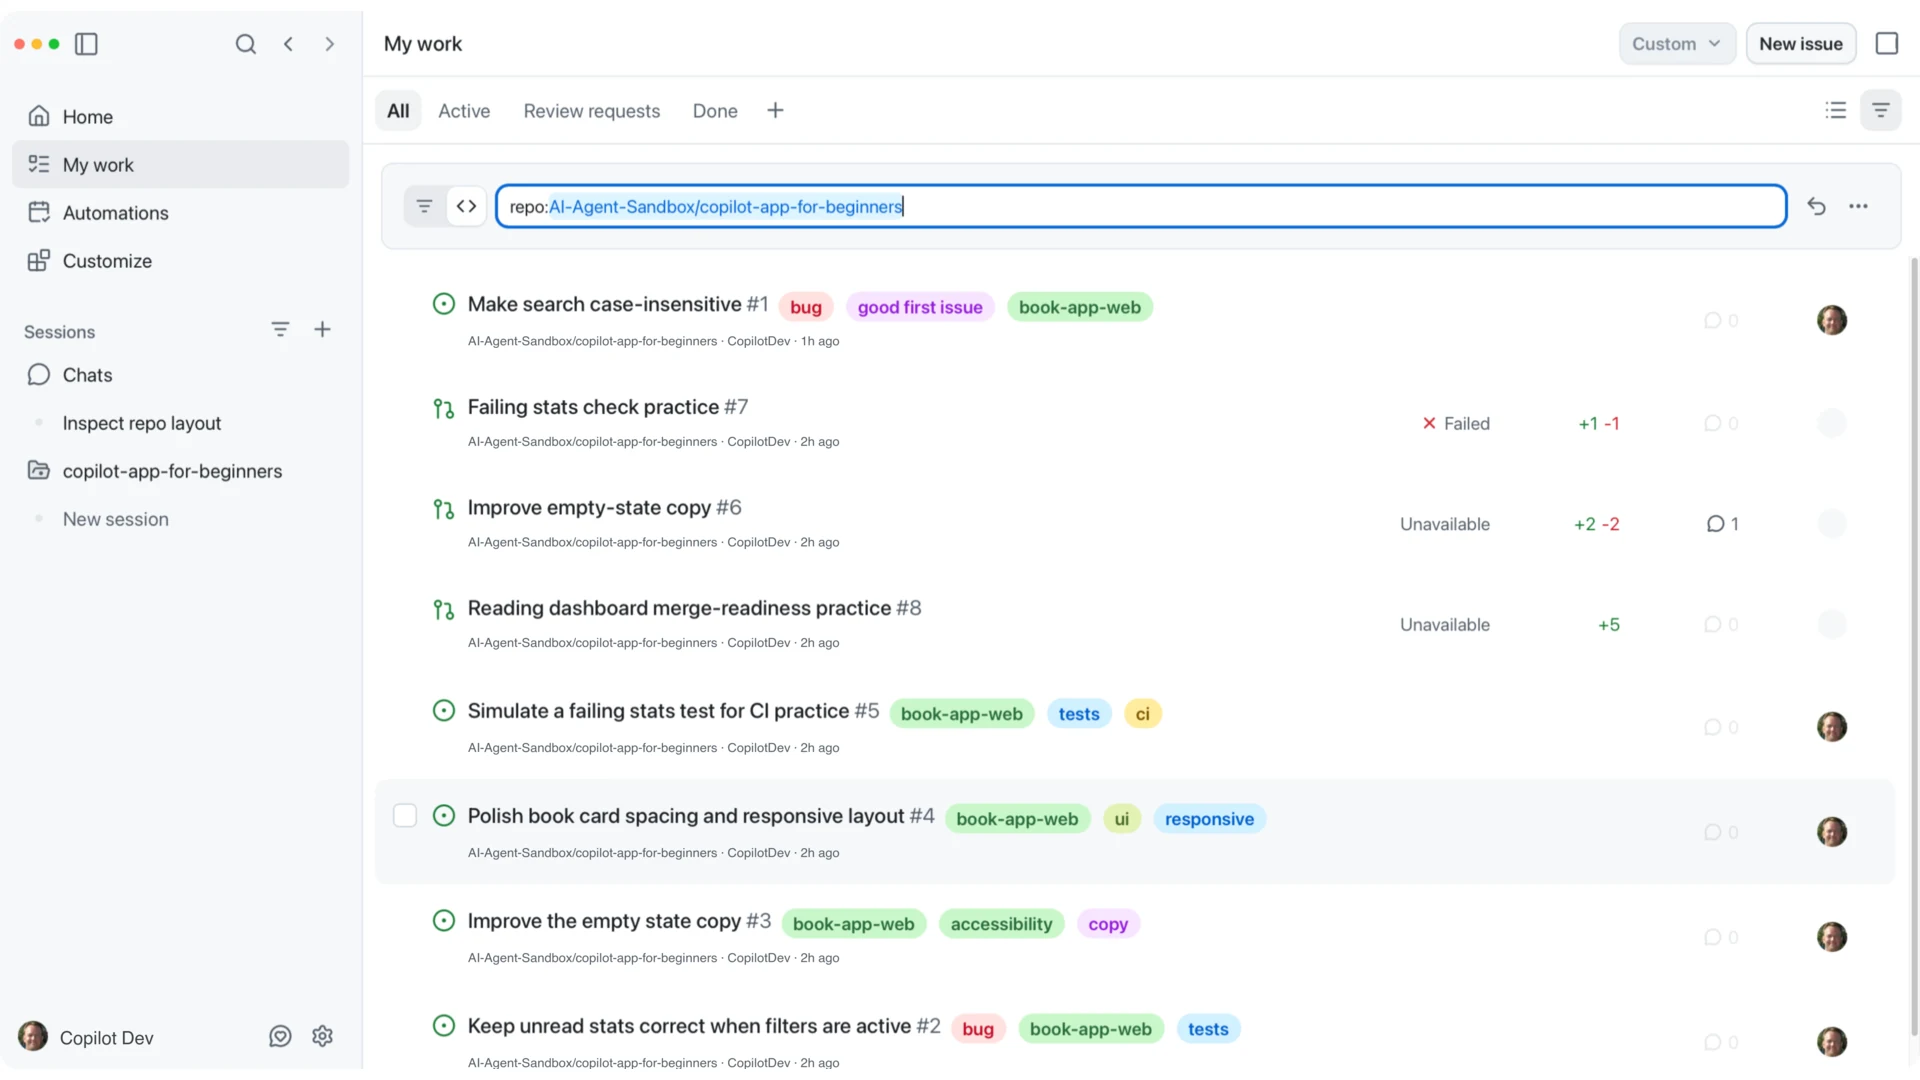
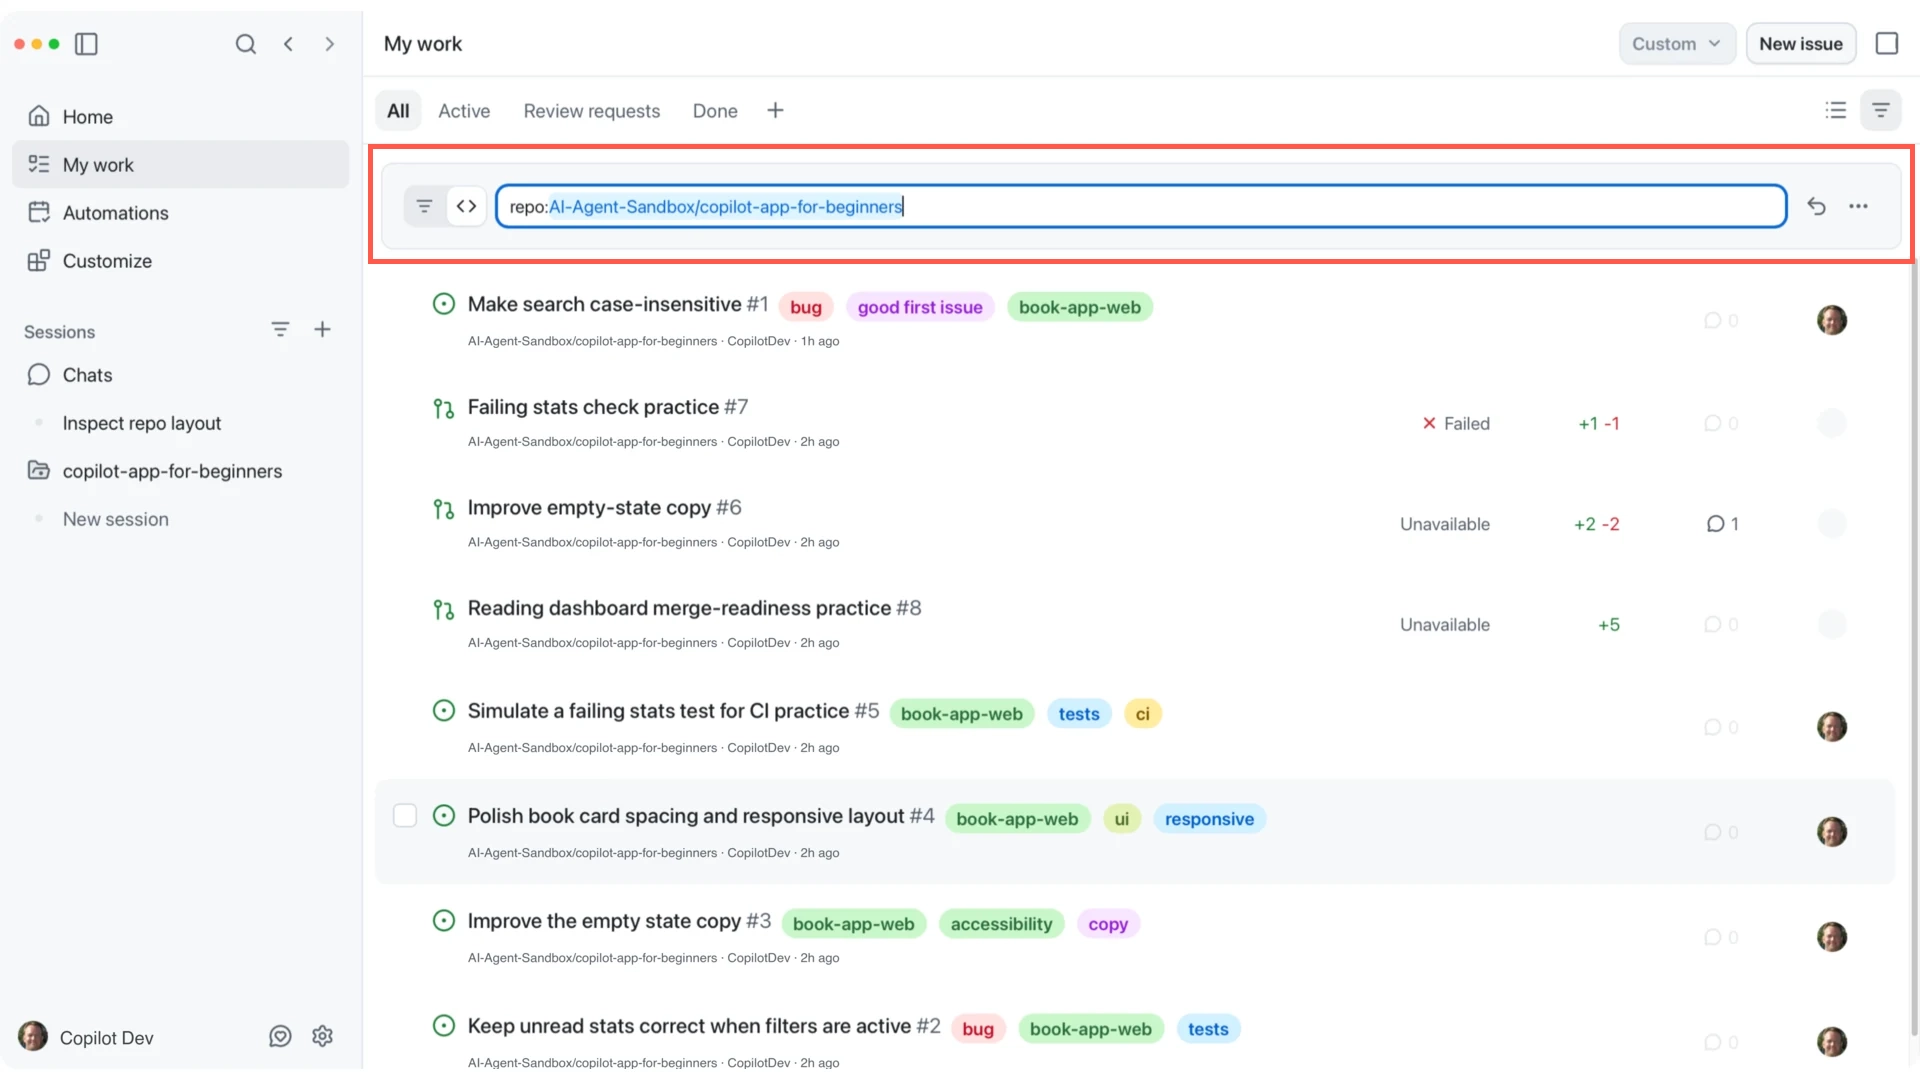
Update 03

Changed region(s): [[0.1875, 0.2139, 1.0, 0.2444], [0.1875, 0.1222, 1.0, 0.1528]]

diff --git a/03-development-workflows/README.md b/03-development-workflows/README.md
@@ -212,7 +212,7 @@ The rubber duck agent acts as a constructive critic. It can identify missing evi
 1. Compare the critique with the evidence you gathered. Address any relevant gap before continuing.
 
 > [!NOTE]
-> The rubber duck agent is available when the main session uses a Claude or GPT model. If the command is unavailable, switch to one of those models or submit the same request without the slash command.
+> The rubber duck agent is available when the main session uses a Claude or GPT model. If the command is unavailable, switch to one of those models or submit the same request without the slash command. 
 
 <details>
 <summary>Optional: Use Pick &amp; Polish for a UI Change</summary>
@@ -225,13 +225,15 @@ The rubber duck agent acts as a constructive critic. It can identify missing evi
    ```bash
    cd samples/book-app-web
    npm install
+   npm run build
    npm run dev
    ```
 
-1. In the Workspace panel, select **+**, then **Browser**. Enter the **Local** URL shown in the terminal and press `Enter`.
-1. In the browser toolbar, select **Pick & Polish**.
+1. In the Workspace panel, select **+**, then **Browser** (if it's not already open). Enter the **Local** URL shown in the terminal and press `Enter`.
+1. In the browser toolbar, select **Pick & Polish**. This is step 1 in the following image.
 1. Move your pointer over the app. Pick & Polish highlights elements as you move across the page.
-1. Select the empty background area of one book card so the whole card is highlighted. An `article.book-card` attachment appears in the prompt box, and Pick & Polish turns off.
+1. Select the empty background area of one book card so the whole card is highlighted (step 2 in the image). 
+1. An `article.book-card` attachment appears in the prompt box (step 3 in the image), and Pick & Polish turns off.
 
 ![Pick & Polish with an article.book-card attachment in the prompt box](assets/app-pick-and-polish.webp)
 
@@ -255,9 +257,10 @@ The outer loop is:
 
 1. Start from a GitHub issue.
 2. Implement and validate the change in a session.
-3. Open and review a pull request.
-4. Respond to feedback and failing checks.
-5. Merge only when the diff, local evidence, and GitHub checks agree.
+3. Review the diffs and evidence.
+4. Open and review a pull request.
+5. Respond to feedback and failing checks.
+6. Merge only when the diff, local evidence, and GitHub checks agree.
 
 ![Issue-to-merge workflow with a session, diff, approval gates, pull request, checks, and merge](assets/issue-to-merged-pr.webp)
 
@@ -268,7 +271,7 @@ The diagram shows the main path toward a merge. Feedback or a failed check can s
 **My work** is the app's inbox for issues, pull requests, review requests, and checks.
 
 1. Open **My work** and stay on **All**.
-1. Filter to your fork:
+1. Filter your fork by typing `repo:` into the searchbox and then selecting your repository:
 
    ```text
    repo:YOUR-OWNER/copilot-app-for-beginners
@@ -276,7 +279,11 @@ The diagram shows the main path toward a merge. Feedback or a failed check can s
 
 ![My work filtered to the course repository, showing its issues and pull requests](assets/app-my-work-filtered.webp)
 
-This view shows both issues and pull requests from the course repository. Add another qualifier when you want to narrow the list:
+Alternatively, you can select `All repositories` at the top of the **My work** panel, then select your repository from the list.
+
+<img src="assets/app-filter-repo.webp" alt="My work repository list showing the course repository" width="300" />
+
+This view shows both issues and pull requests from the course repository. Add another qualifier when you want to narrow the list even further:
 
 - Open issues:
 
@@ -294,28 +301,31 @@ Confirm that opening an item shows its title, repository, number, and current st
 
 Replace `YOUR-OWNER` with the username or organization that owns your fork.
 
-### 5. Start from an Issue and Open a Pull Request
+### 5. Identify an Issue and Open a Pull Request
 
-Issue 1 asks you to make search case-insensitive. The intentional bug exists only on the `practice-search-case-bug` branch.
+Issue 1 asks you to make search in the book app case-insensitive. The intentional bug exists only on the `practice-search-case-bug` branch.
 
-1. In **My work**, open **Make search case-insensitive**. If needed, review the scenario in [`samples/app-course-issues.md`](../samples/app-course-issues.md#issue-1-make-search-case-insensitive).
+1. In **My work**, open the **Make search case-insensitive** issue and review the details. If needed, review the scenario in [`samples/app-course-issues.md`](../samples/app-course-issues.md#issue-1-make-search-case-insensitive).
+
+> [!NOTE]
+> You may recall that in a previous chapter you attached an issue to a session using the #[issue-number] syntax. Here, you'll attach the issue to a session again and create a pull request based on that session.
 
 ![Issue 1 detail view with the New session control](assets/app-issue-new-session.webp)
 
-1. Select **New session**. The issue context is attached automatically.
-1. Use the branch selector below the prompt box to choose `practice-search-case-bug`.
-1. Set the mode to **Plan**, then submit:
+1. Select **Create from** next to your project in the sidebar and select the `practice-search-case-bug` branch.
+1. Set the mode to **Plan**, then submit the following promp. Notice that it includes the issue you previously reviewed:
 
    ```text
-   Use this issue as the source of truth. Create a small implementation and validation plan. Name the files you expect to change and the tests or browser checks that should prove the fix. Don't edit files yet.
+   Use issue #1 as the source of truth. Create a small implementation and validation plan. Name the files you expect to change and the tests or browser checks that should prove the fix. Don't edit files yet.
    ```
 
 1. Review the plan, switch to **Interactive**, and ask Copilot to implement it.
 1. Follow the inner loop:
-   - Inspect the diff.
-   - Run `npm install` if this worktree doesn't have dependencies.
-   - Run `npm test -- --run` and `npm run build`.
-   - Start the app and confirm that searches such as `hobbit` and `HOBBIT` return the same result.
+   - Inspect the diff in the **Review panel**.
+   - Open the terminal and run `npm install`.
+   - Run `npm test -- --run`.
+   - Run `npm run build`.
+   - Start the app with `npm run dev` and confirm that searches such as `hobbit` and `HOBBIT` return the same result.
 1. Confirm that the **Changes** tab contains only the focused search fix and its test.
 1. Ask Copilot for help with the description:
 
@@ -323,8 +333,9 @@ Issue 1 asks you to make search case-insensitive. The intentional bug exists onl
    Draft a pull request summary for this session. Include what changed, why it changed, and the validation performed. Don't claim a check passed unless it appears in the terminal or CI output.
    ```
 
-1. Review the draft, then select **Create PR** above the prompt box. Edit the title and description before publishing the pull request.
-1. Open the pull request in **My work**, select **Changes**, and inspect the final diff. GitHub's documentation calls this tab **Files changed**.
+1. Review the draft, then select **Create PR** at the top of the Copilot app interface. Once the PR is created you can select it above the prompt box to view details. 
+1. In a real-world situation you can merge the PR (assuming it's ready to merge) by selecting **Ready to merge** at the top of the Copilot app interface. For this exercise, merging is unnecessary because the corrected search behavior is already in  main .
+1. In addition to viewing the PR in the project session, you can also view it in **My work** and inspect the final diff.
 
 Your local evidence should show that the behavior works. The pull request now gives reviewers and CI a chance to check the same change on GitHub.
 
@@ -345,7 +356,7 @@ repo:YOUR-OWNER/copilot-app-for-beginners is:pr is:open
 
 ![Pull request conversation with the empty-state copy comment](assets/app-pr-review-comment.webp)
 
-1. If a **Fix** control appears on the comment, select it. Otherwise, start a session from the pull request.
+1. If a **Fix** control appears on the comment, select it. Otherwise, start a new session from the pull request as you did earlier.
 1. Ask Copilot:
 
    ```text
@@ -378,6 +389,7 @@ A **CI check** is an automated validation run on a pull request, often through G
    npm install
    npm test -- --run
    npm run build
+   npm run dev
    ```
 
 1. Inspect the final diff, then ask Copilot to commit and push the fix.

diff --git a/diffs.md b/diffs.md
@@ -1,0 +1,100 @@
+# Chapter 03 Changes Made by Copilot
+
+This review-only diff contains the changes Copilot made to
+`03-development-workflows/README.md`. It excludes the changes that were already
+in the working tree before the review.
+
+````diff
+- Use the Workspace panel, tests, build output, and browser preview to validate a local change
++ Use the review panel, tests, build output, and browser preview to validate a local change
+
+-| Diff | Workspace panel **Changes** tab | The change is focused and understandable |
+-| Tests and build | Workspace panel **Terminal** tab | The relevant tests and build complete successfully |
+-| Running app | Workspace panel browser tab | The behavior works as expected |
++| Diff | Review panel **Changes** tab | The change is focused and understandable |
++| Tests and build | Review panel **Terminal** tab | The relevant tests and build complete successfully |
++| Running app | Review panel browser tab | The behavior works as expected |
+
+-1. Select **View ➡ Toggle Review Panel** or the **Toggle panel** icon in the upper-right corner.
++1. Select **View** > **Toggle Review Panel**.
+
+-![Workspace panel with Changes, Terminal, and the Book App Web browser tab](assets/app-workspace-panel.webp)
++![Review panel with Changes, Terminal, and the Book App Web browser tab](assets/app-workspace-panel.webp)
+
+-1. In the Workspace panel, select **+**, then **Browser**. Enter the **Local** URL shown in the terminal and press `Enter`.
++1. In the review panel, select **+**, then **Browser**. Enter the **Local** URL shown in the terminal and press `Enter`.
+
+-1. In the Workspace panel, select **+**, then **Browser** (if it's not already open). Enter the **Local** URL shown in the terminal and press `Enter`.
++1. In the review panel, select **+**, then **Browser** (if it isn't already open). Enter the **Local** URL shown in the terminal and press `Enter`.
+
+-1. Filter your fork by typing `repo:` into the searchbox and then selecting your repository:
++1. Filter your fork by typing `repo:` in the search box, then select your repository:
+
+-Alternatively, you can select `All repositories` at the top of the **My work** panel, then select your repository from the list.
++Alternatively, select **All repositories** at the top of **My work**, then select your repository from the list.
+
+-### 5. Identify an Issue and Open a Pull Request
++### 5. Start from an Issue and Open a Pull Request
+
+-> You may recall that in a previous chapter you attached an issue to a session using the #[issue-number] syntax. Here, you'll attach the issue to a session again and create a pull request based on that session.
++> In Chapter 02, you attached an issue from the prompt box by typing `#`. This time, you'll start directly from the issue so the app loads its context into the new session automatically.
+
+-1. Select **Create from** next to your project in the sidebar and select the `practice-search-case-bug` branch.
+-1. Set the mode to **Plan**, then submit the following promp. Notice that it includes the issue you previously reviewed:
++1. Select **New session**.
++1. Use the branch selector below the prompt box to choose `practice-search-case-bug`.
++1. Set the mode to **Plan**, then submit:
+
+-   Use issue #1 as the source of truth. Create a small implementation and validation plan. Name the files you expect to change and the tests or browser checks that should prove the fix. Don't edit files yet.
++   Use the attached issue as the source of truth. Create a small implementation and validation plan. Name the files you expect to change and the tests or browser checks that should prove the fix. Don't edit files yet.
+
+-1. Review the plan, switch to **Interactive**, and ask Copilot to implement it.
++1. Review the plan, switch to **Interactive**, then submit:
++
++   ```text
++   Implement the plan. Include a focused regression test that proves uppercase and lowercase searches return the same result.
++   ```
+
+-   - Inspect the diff in the **Review panel**.
+-   - Open the terminal and run `npm install`.
+-   - Run `npm test -- --run`.
+-   - Run `npm run build`.
+-   - Start the app with `npm run dev` and confirm that searches such as `hobbit` and `HOBBIT` return the same result.
++   - Inspect the diff in the **Changes** tab.
++   - In **Terminal**, change to `samples/book-app-web` and run `npm install`.
++   - Run `npm test -- --run` and `npm run build`.
++   - Start the app with `npm run dev`.
++   - Open a browser tab and confirm that searches such as `hobbit` and `HOBBIT` return the same result.
++   - Return to **Terminal** and press `Ctrl+C` to stop the development server.
+
+-1. Review the draft, then select **Create PR** at the top of the Copilot app interface. Once the PR is created you can select it above the prompt box to view details.
+-1. In a real-world situation you can merge the PR (assuming it's ready to merge) by selecting **Ready to merge** at the top of the Copilot app interface. For this exercise, merging is unnecessary because the corrected search behavior is already in  main .
+-1. In addition to viewing the PR in the project session, you can also view it in **My work** and inspect the final diff.
++1. Review the draft, then select **Create PR** at the top of the session. Review the title and description before creating the pull request.
++1. After the pull request is created, select its link above the prompt box to view its details.
++1. Open the pull request in **My work**, review the **Overview** and **Changes** tabs, and confirm that its checks pass.
++
++Don't merge this practice pull request. The correct search behavior is already on `main`, and the advanced section later in this chapter explains how Agent Merge works.
++
++> [!NOTE]
++> The pull request diff may show only the improved regression test. That's expected: fixing the intentional bug restores `App.tsx` to the version already on `main`, while the stronger test remains as the new change.
+
+-1. If a **Fix** control appears on the comment, select it. Otherwise, start a new session from the pull request as you did earlier.
++1. If a **Fix** control appears on the comment, select it. Otherwise, select **New session** to start a session from the pull request.
+
+    npm install
+    npm test -- --run
+    npm run build
+-   npm run dev
+    ```
+
++1. Start the app with `npm run dev`, confirm the favorite count includes both read and unread favorites, then press `Ctrl+C` to stop the development server.
+
+-Agent Merge can help carry a pull request through review comments, checks, and merge requirements. It runs in the background and merges only when GitHub allows it.
++Agent Merge can help carry a pull request through review comments, checks, and merge requirements. You enable it from the merge-readiness control at the top of a pull request. It runs in the background, can continue after the app restarts, and merges only when GitHub allows it.
+
+-3. The Workspace panel keeps the local diff, terminal output, and browser preview visible.
++3. The review panel keeps the local diff, terminal output, and browser preview visible.
+````
+
+Minor cleanup included removing trailing whitespace from two edited lines.

diff --git a/06-automations/README.md b/06-automations/README.md
@@ -17,7 +17,7 @@ By the end of this chapter, you'll be able to:
 - Understand scheduled automations as an intermediate next step
 - Recognize cloud and issue-triggered automations as advanced workflows
 
-> ⏱ **Estimated Time**: ~50 minutes (20 min reading + 30 min hands-on)
+> ⏱ **Estimated Time**: ~50 minutes
 
 ---
 
